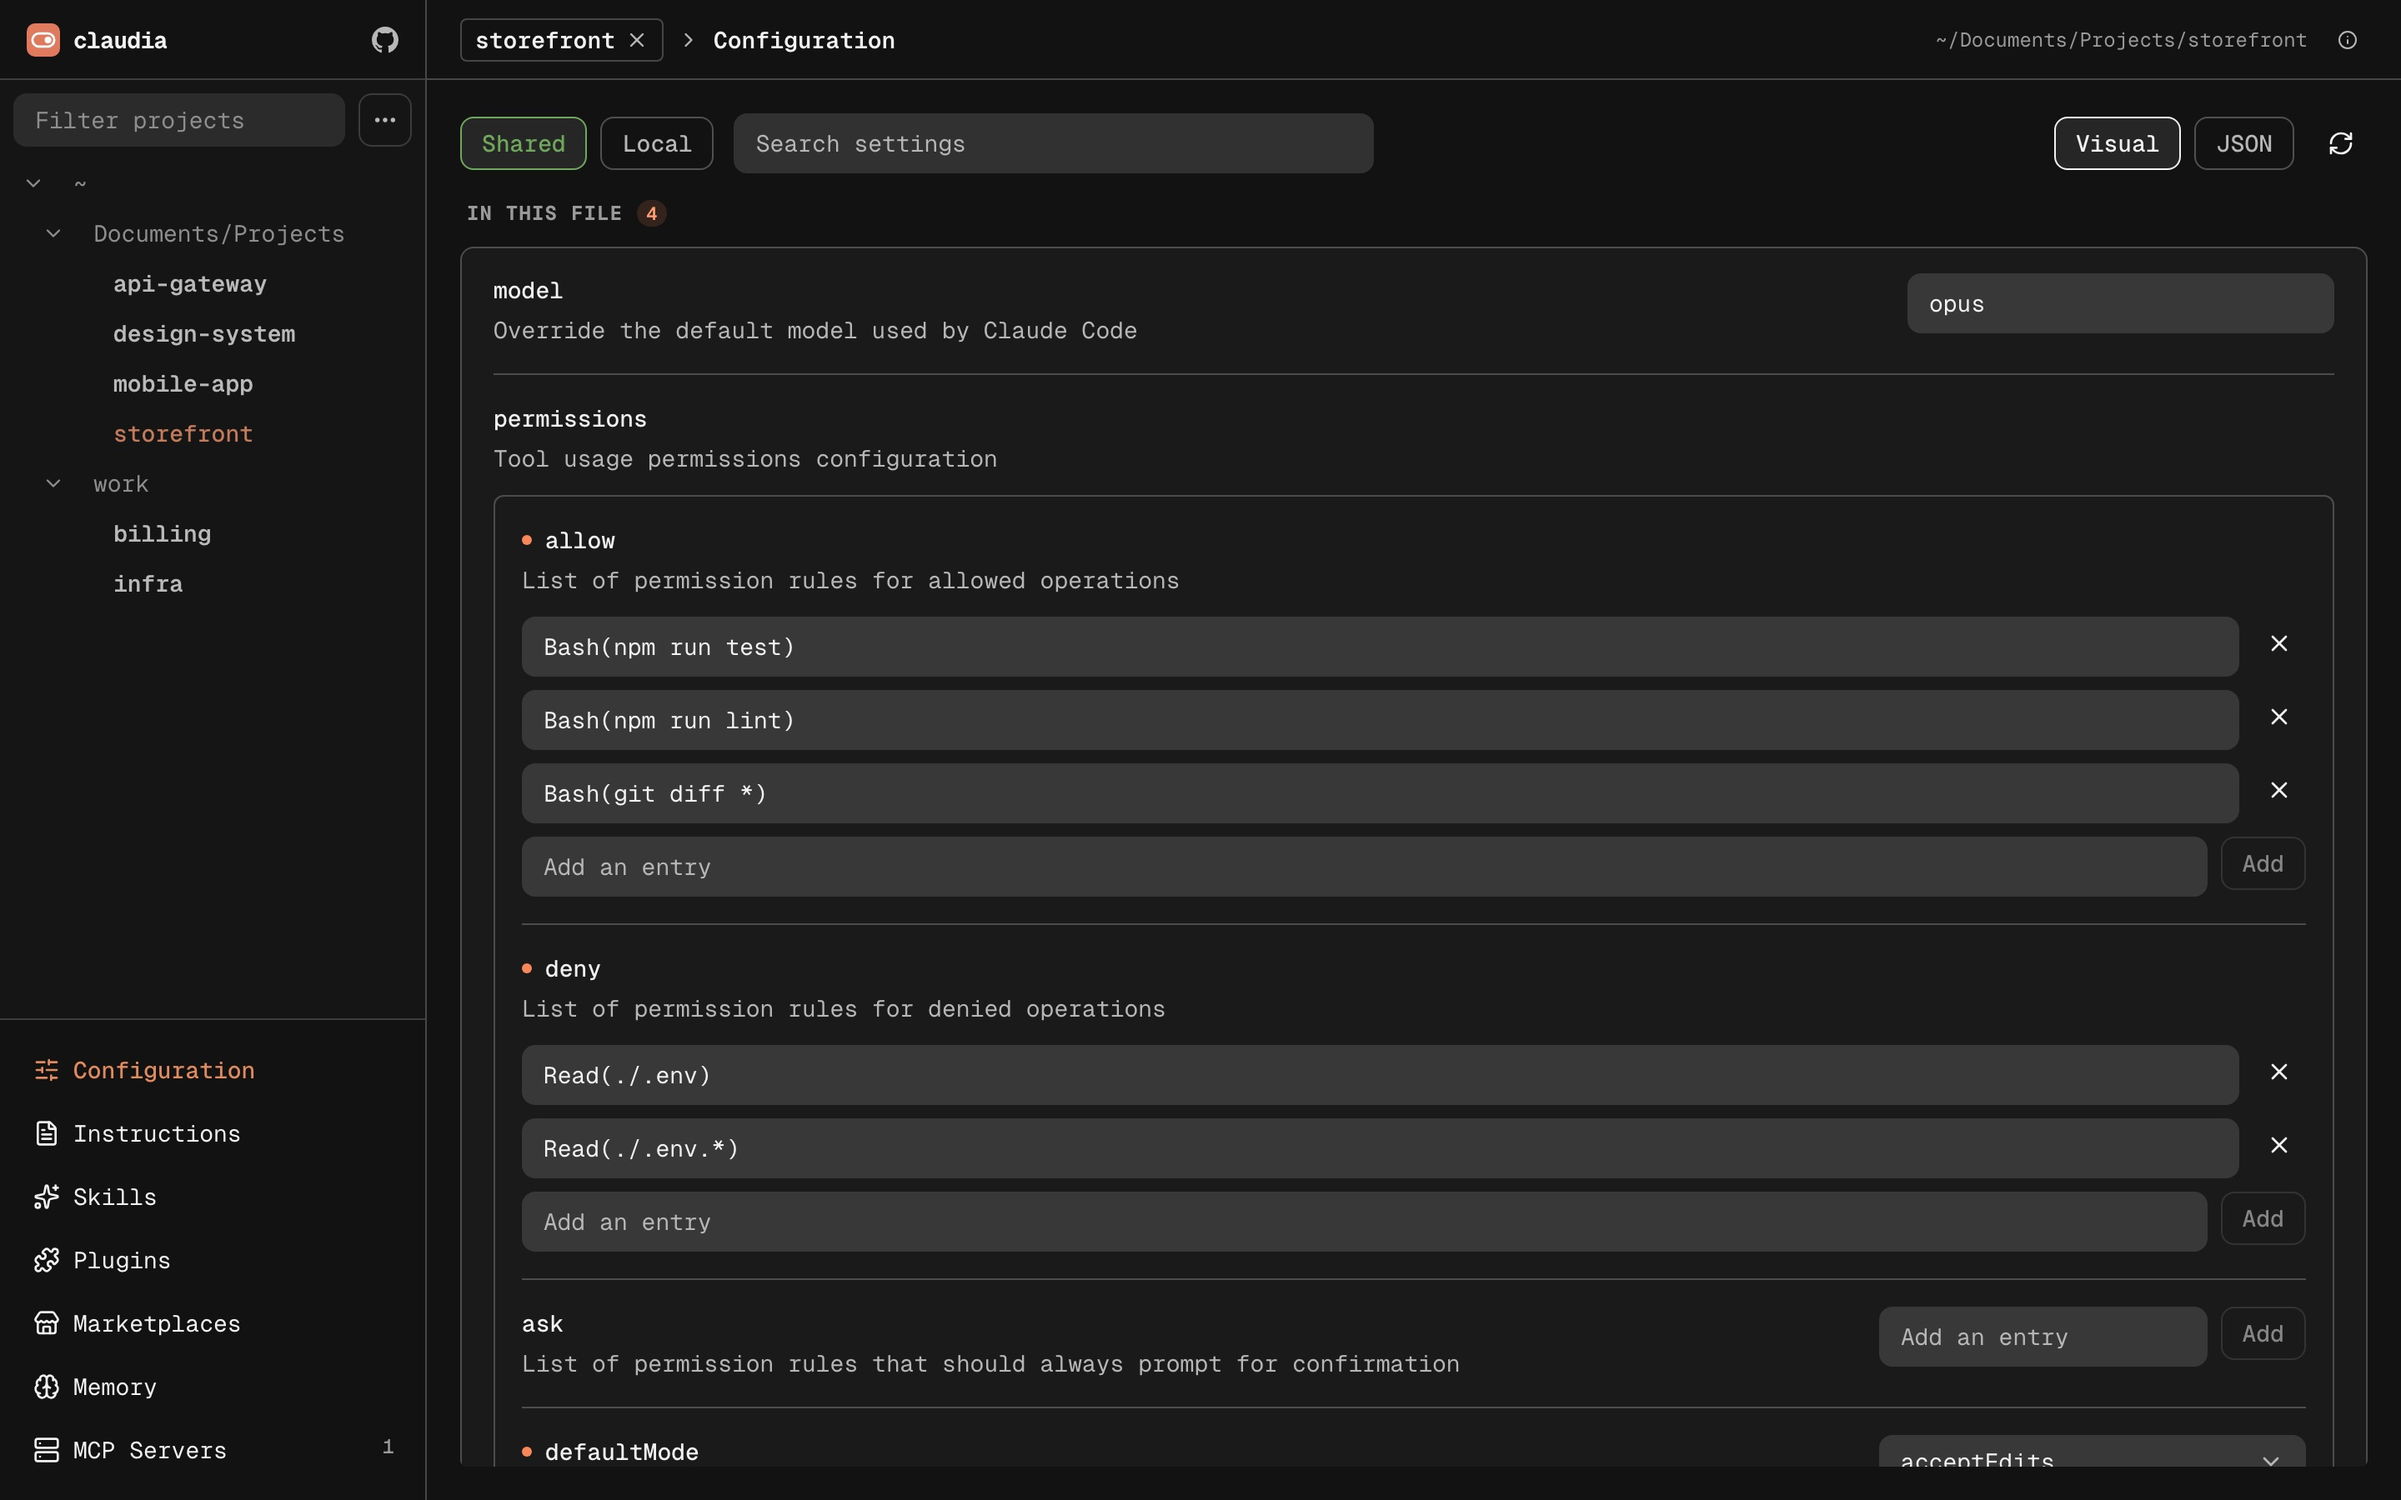
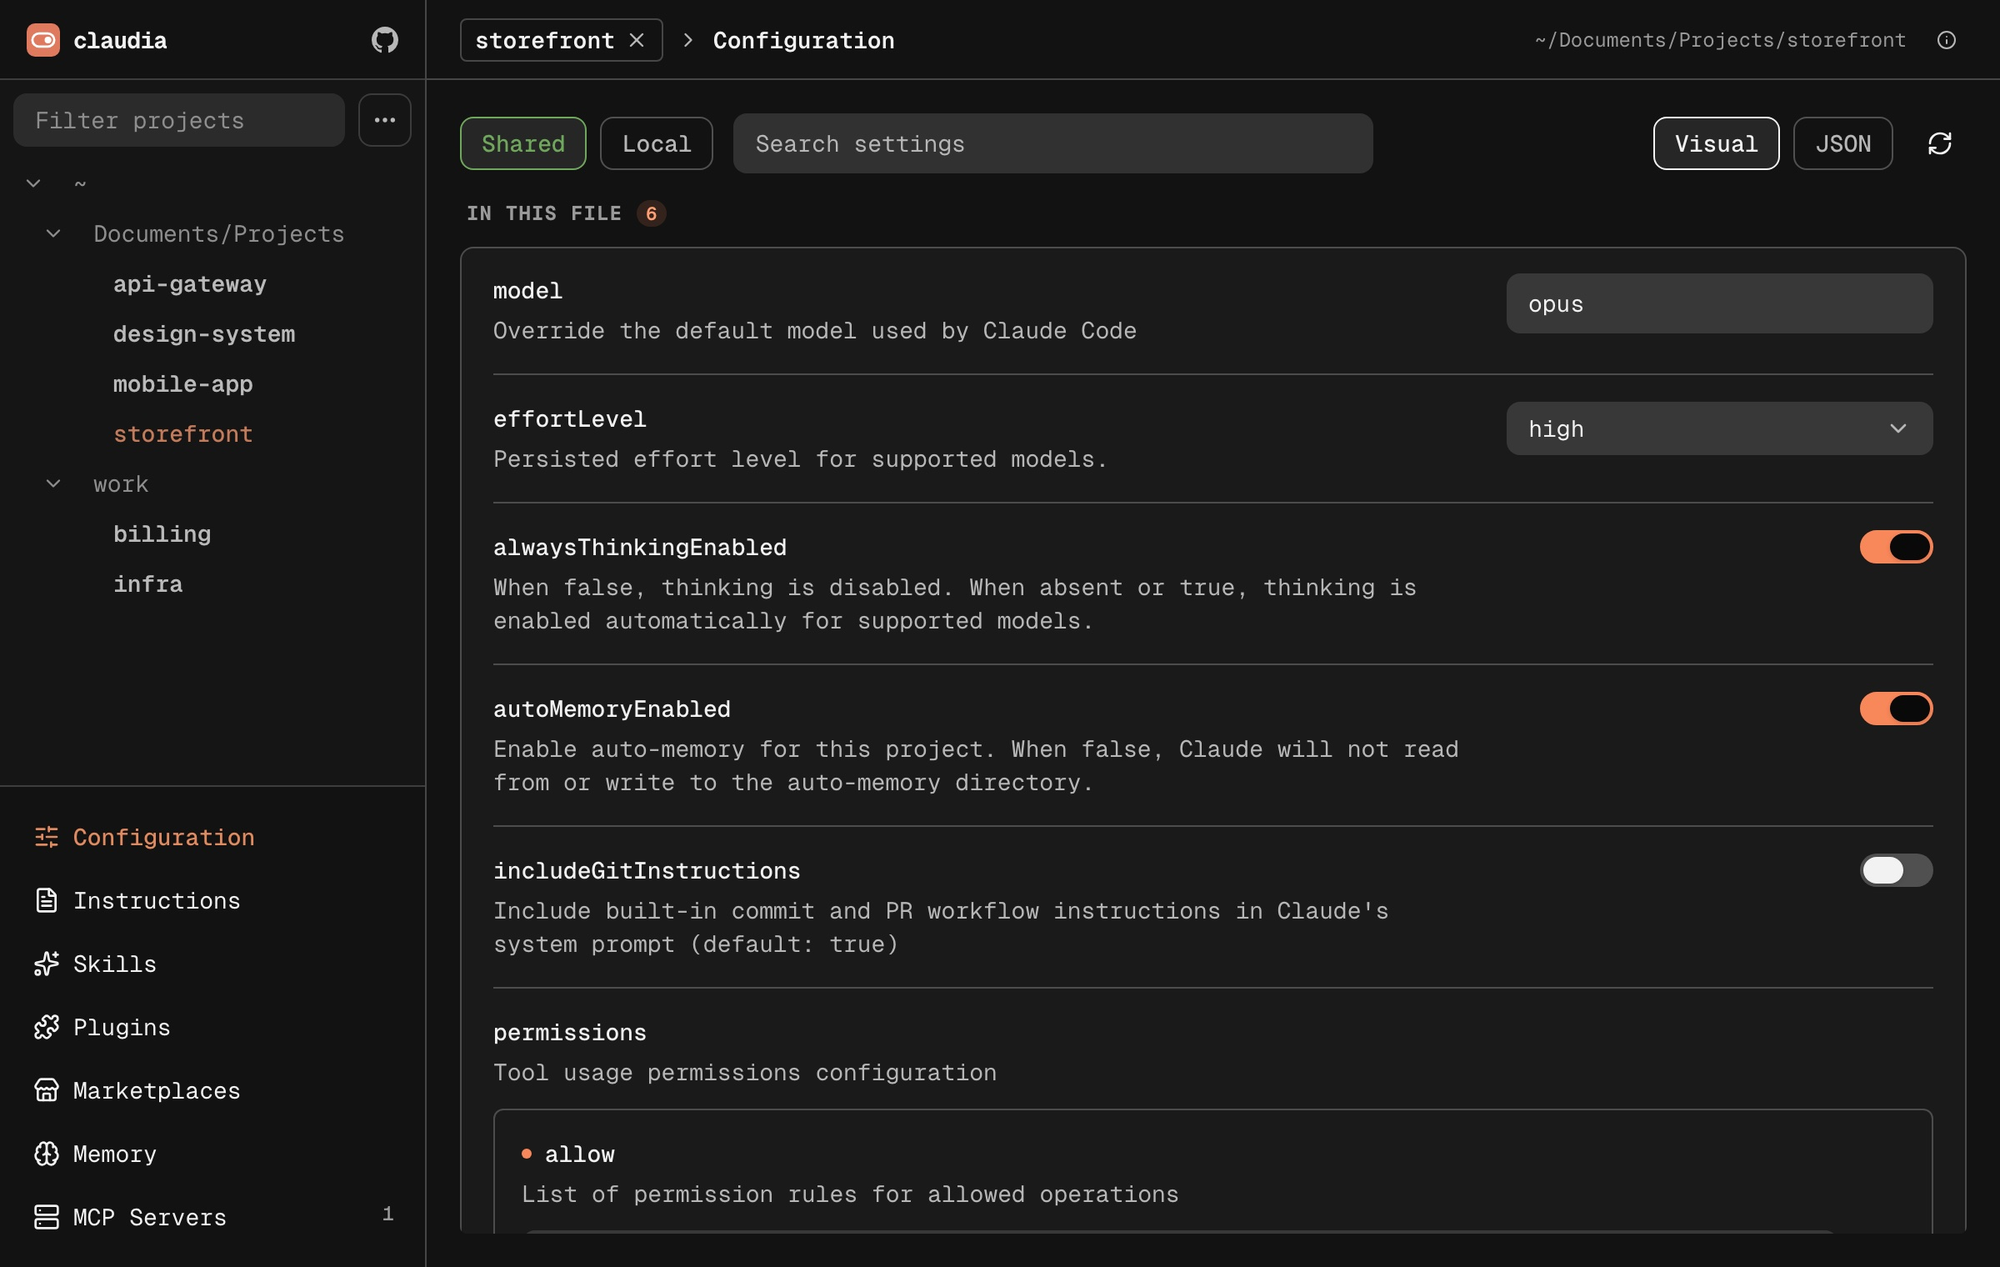
simpler claudia card with a large framed screenshot of the form

diff --git a/docs/app/(home)/claudia-card.tsx b/docs/app/(home)/claudia-card.tsx
@@ -1,6 +1,6 @@
 'use client';
 
-import { ArrowRight, Check, Copy, FolderTree, Layers, RefreshCw, ShieldCheck } from 'lucide-react';
+import { ArrowRight, Check, Copy } from 'lucide-react';
 import Link from 'next/link';
 import { useEffect, useState } from 'react';
 import { cn } from '@/lib/cn';
@@ -16,29 +16,6 @@ const installs = [
     id: 'windows',
     label: 'Windows',
     command: 'irm https://raw.githubusercontent.com/claude-settings-xyz/claudia/main/install.ps1 | iex',
-  },
-];
-
-const features = [
-  {
-    icon: RefreshCw,
-    title: 'In sync with your Claude Code',
-    text: 'The form comes from the Claude Code on your computer, so it shows the settings that your version reads.',
-  },
-  {
-    icon: FolderTree,
-    title: 'Global and per project',
-    text: 'Your global settings, and the shared and local settings of each project.',
-  },
-  {
-    icon: Layers,
-    title: 'More than settings',
-    text: 'CLAUDE.md, skills, MCP servers, plugins, marketplaces and memory, in one place.',
-  },
-  {
-    icon: ShieldCheck,
-    title: 'Stays on your computer',
-    text: 'It only listens on 127.0.0.1, and it never sends your files anywhere.',
   },
 ];
 
@@ -60,95 +37,88 @@ export function ClaudiaCard() {
   return (
     <section
       id="claudia"
-      className="scroll-mt-20 overflow-hidden rounded-3xl bg-[linear-gradient(135deg,#b94e30,#86331d)] text-white shadow-xl"
+      className="scroll-mt-20 overflow-hidden rounded-3xl bg-[linear-gradient(160deg,#c2553a,#86331d)] text-white shadow-xl"
     >
-      <div className="grid grid-cols-1 gap-10 p-6 sm:p-10 lg:grid-cols-[minmax(0,1fr)_minmax(0,1.1fr)] lg:items-center lg:p-12">
-        <div className="flex flex-col gap-6">
+      <div className="grid grid-cols-1 gap-8 p-6 sm:p-10 lg:grid-cols-[minmax(0,1fr)_minmax(0,26rem)] lg:items-end lg:p-12">
+        <div className="flex flex-col gap-4">
           <div className="flex items-center gap-2.5">
             <Logo />
             <span className="text-lg font-semibold">Claudia</span>
           </div>
-          <div className="flex flex-col gap-3">
-            <h2 className="text-3xl font-bold tracking-tight sm:text-4xl">Edit every setting with a form, not with JSON</h2>
-            <p className="text-white/85">
-              Claudia is a small app for your menu bar or tray. It opens in your browser and shows each setting of
-              Claude Code as a form. Change settings for all your projects or for one, and keep the rest of your Claude
-              Code setup in the same place.
-            </p>
-          </div>
+          <h2 className="text-3xl font-bold tracking-tight text-balance sm:text-4xl">
+            Edit every setting with a form, not with JSON
+          </h2>
+          <p className="max-w-xl text-white/85">
+            Claudia is a small tray app that shows your settings.json as a form, built from the Claude Code on your
+            computer. Use it for all your projects or for one, with CLAUDE.md, skills, MCP servers and plugins next to
+            it.
+          </p>
+        </div>
 
-          <ul className="grid gap-4 sm:grid-cols-2">
-            {features.map(({ icon: Icon, title, text }) => (
-              <li key={title} className="flex gap-3">
-                <Icon className="mt-0.5 size-5 shrink-0 text-white/80" />
-                <div>
-                  <p className="font-semibold">{title}</p>
-                  <p className="text-sm text-white/75">{text}</p>
-                </div>
-              </li>
-            ))}
-          </ul>
-
-          <div className="flex flex-col gap-2">
-            <div role="tablist" aria-label="Your system" className="flex gap-1">
-              {installs.map((each) => (
-                <button
-                  key={each.id}
-                  type="button"
-                  role="tab"
-                  aria-selected={each.id === system}
-                  onClick={() => setSystem(each.id)}
-                  className={cn(
-                    'rounded-md px-2.5 py-1 text-sm font-medium transition-colors',
-                    each.id === system ? 'bg-white/20 text-white' : 'text-white/70 hover:text-white',
-                  )}
-                >
-                  {each.label}
-                </button>
-              ))}
-            </div>
-            <div className="flex items-center gap-2 rounded-xl bg-black/30 p-1.5 pl-4 ring-1 ring-white/15">
-              <code className="min-w-0 flex-1 overflow-x-auto font-mono text-xs whitespace-nowrap text-white/90 sm:text-[13px]">
-                {install.command}
-              </code>
+        <div className="flex flex-col gap-3">
+          <div role="tablist" aria-label="Your system" className="flex gap-1">
+            {installs.map((each) => (
               <button
+                key={each.id}
                 type="button"
-                onClick={copy}
-                aria-label="Copy the install command"
-                className="flex shrink-0 items-center gap-1.5 rounded-lg bg-white px-3 py-2 text-sm font-semibold text-[#86331d] transition-opacity hover:opacity-90"
+                role="tab"
+                aria-selected={each.id === system}
+                onClick={() => setSystem(each.id)}
+                className={cn(
+                  'rounded-md px-2.5 py-1 text-sm font-medium transition-colors',
+                  each.id === system ? 'bg-white/20 text-white' : 'text-white/70 hover:text-white',
+                )}
               >
-                {copied ? <Check className="size-4" /> : <Copy className="size-4" />}
-                {copied ? 'Copied' : 'Copy'}
+                {each.label}
               </button>
-            </div>
-            <p className="text-sm text-white/70">Run it in a terminal. It installs Claudia and opens it in your browser.</p>
+            ))}
           </div>
-
-          <div className="flex flex-wrap gap-3">
-            <Link
-              href="/docs"
-              className="flex items-center gap-1.5 rounded-lg bg-white px-4 py-2.5 text-sm font-semibold text-[#86331d] transition-opacity hover:opacity-90"
+          <div className="flex items-center gap-2 rounded-xl bg-black/30 p-1.5 pl-4 ring-1 ring-white/15">
+            <code className="min-w-0 flex-1 overflow-x-auto font-mono text-xs whitespace-nowrap text-white/90">
+              {install.command}
+            </code>
+            <button
+              type="button"
+              onClick={copy}
+              aria-label="Copy the install command"
+              className="flex shrink-0 items-center gap-1.5 rounded-lg bg-white px-3 py-2 text-sm font-semibold text-[#86331d] transition-opacity hover:opacity-90"
             >
+              {copied ? <Check className="size-4" /> : <Copy className="size-4" />}
+              {copied ? 'Copied' : 'Copy'}
+            </button>
+          </div>
+          <div className="flex flex-wrap items-center gap-x-5 gap-y-2 pt-1 text-sm font-semibold">
+            <Link href="/docs" className="flex items-center gap-1 hover:underline">
               Read the docs
               <ArrowRight className="size-4" />
             </Link>
-            <a
-              href={githubUrl}
-              className="rounded-lg px-4 py-2.5 text-sm font-semibold text-white ring-1 ring-white/40 transition-colors hover:bg-white/10"
-            >
+            <a href={githubUrl} className="text-white/80 hover:text-white hover:underline">
               View on GitHub
             </a>
           </div>
         </div>
+      </div>
 
-        {/* A plain img, because a static export cannot optimize images. */}
-        <img
-          src="/claudia.jpg"
-          alt="Claudia, with the settings of a project open"
-          width={1440}
-          height={900}
-          className="w-full rounded-xl shadow-2xl ring-1 ring-white/20"
-        />
+      {/* The app in a window frame, cut off by the bottom of the card. */}
+      <div className="px-4 sm:px-10 lg:px-12">
+        <div className="overflow-hidden rounded-t-xl bg-[#1a1a1a] shadow-2xl ring-1 ring-white/20">
+          <div className="flex items-center gap-1.5 border-b border-white/10 px-4 py-3">
+            <span className="size-3 rounded-full bg-[#ff5f57]" />
+            <span className="size-3 rounded-full bg-[#febc2e]" />
+            <span className="size-3 rounded-full bg-[#28c840]" />
+            <span className="ml-3 font-mono text-xs text-white/50">127.0.0.1:7377</span>
+          </div>
+          <div className="max-h-[26rem] overflow-hidden sm:max-h-[34rem]">
+            {/* A plain img, because a static export cannot optimize images. */}
+            <img
+              src="/claudia.jpg"
+              alt="Claudia, with the settings of a project as a form: a text field, a list of choices and switches"
+              width={2400}
+              height={1520}
+              className="block w-full"
+            />
+          </div>
+        </div>
       </div>
     </section>
   );
